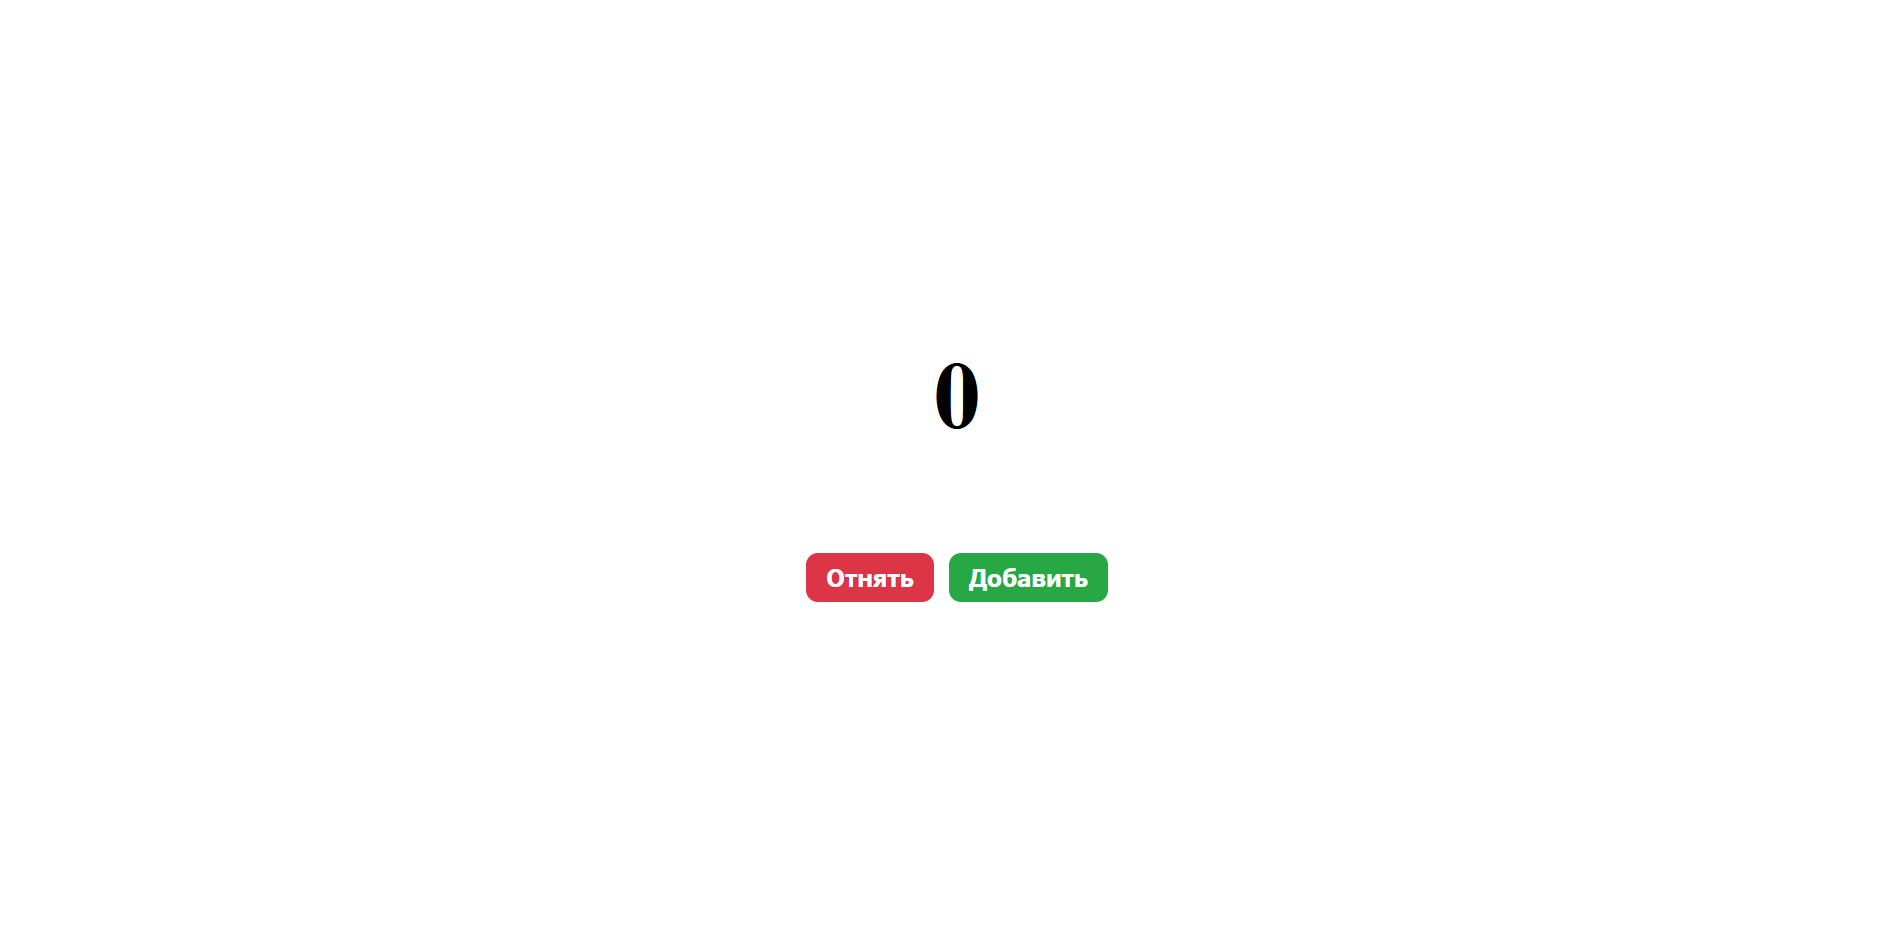
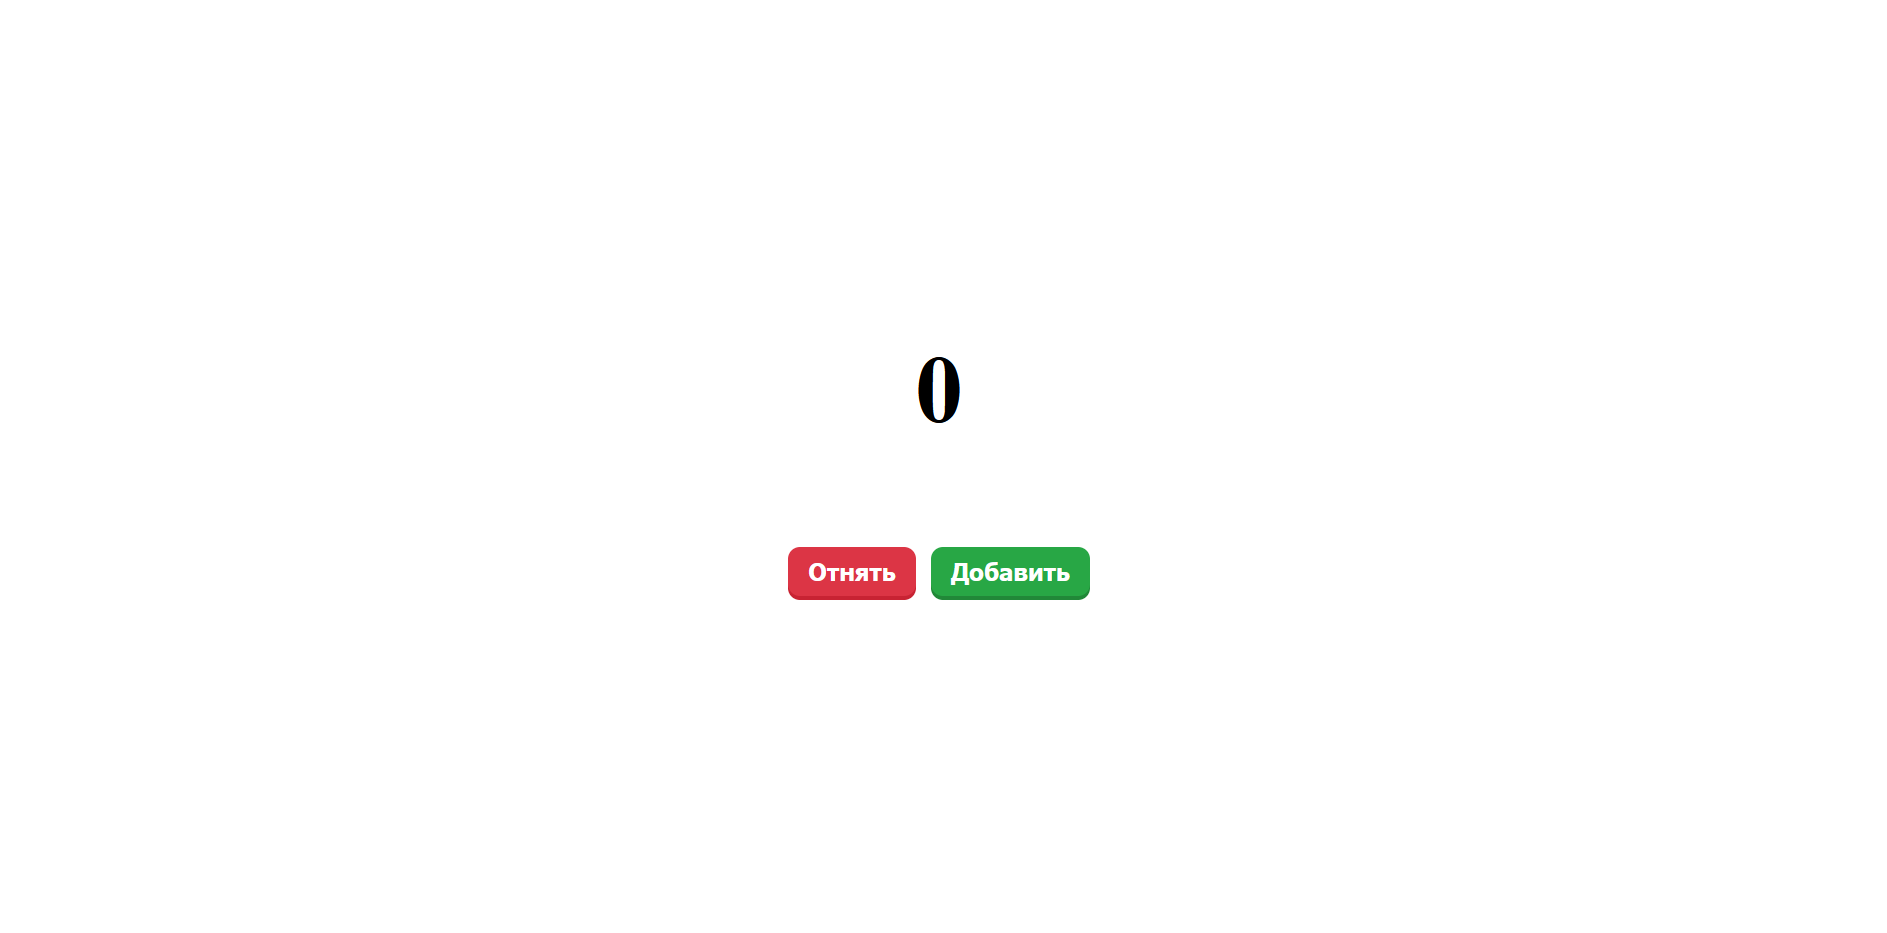
fix: Исправлены стили кнопки

Changed region(s): [[0.3996, 0.5595, 0.584, 0.6527], [0.461, 0.373, 0.5225, 0.4662]]

diff --git a/my-vue-app/src/components/Button.vue b/my-vue-app/src/components/Button.vue
@@ -54,7 +54,7 @@ const emit = defineEmits<{
 }
 
 
-.buttonBase {
+.baseClass {
   position: absolute;
 
   left: 0;